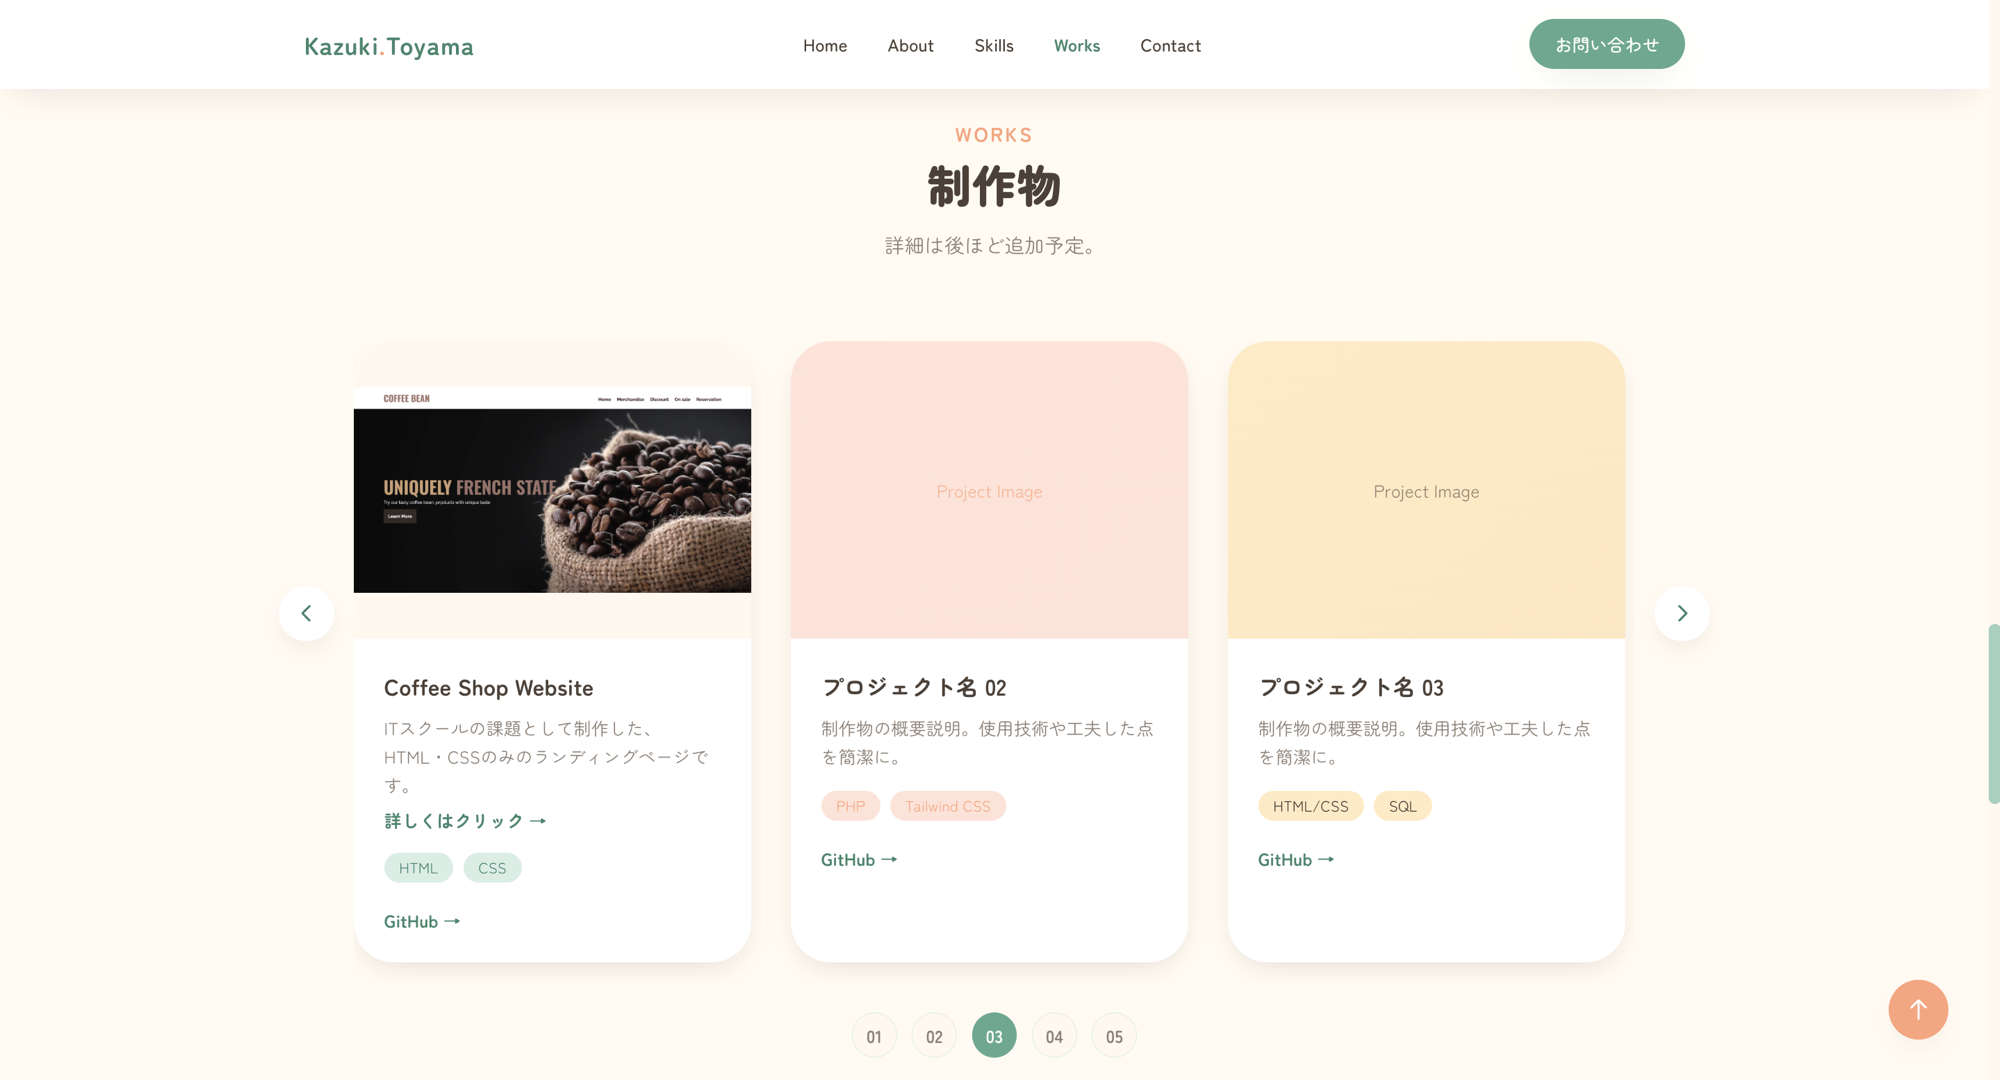
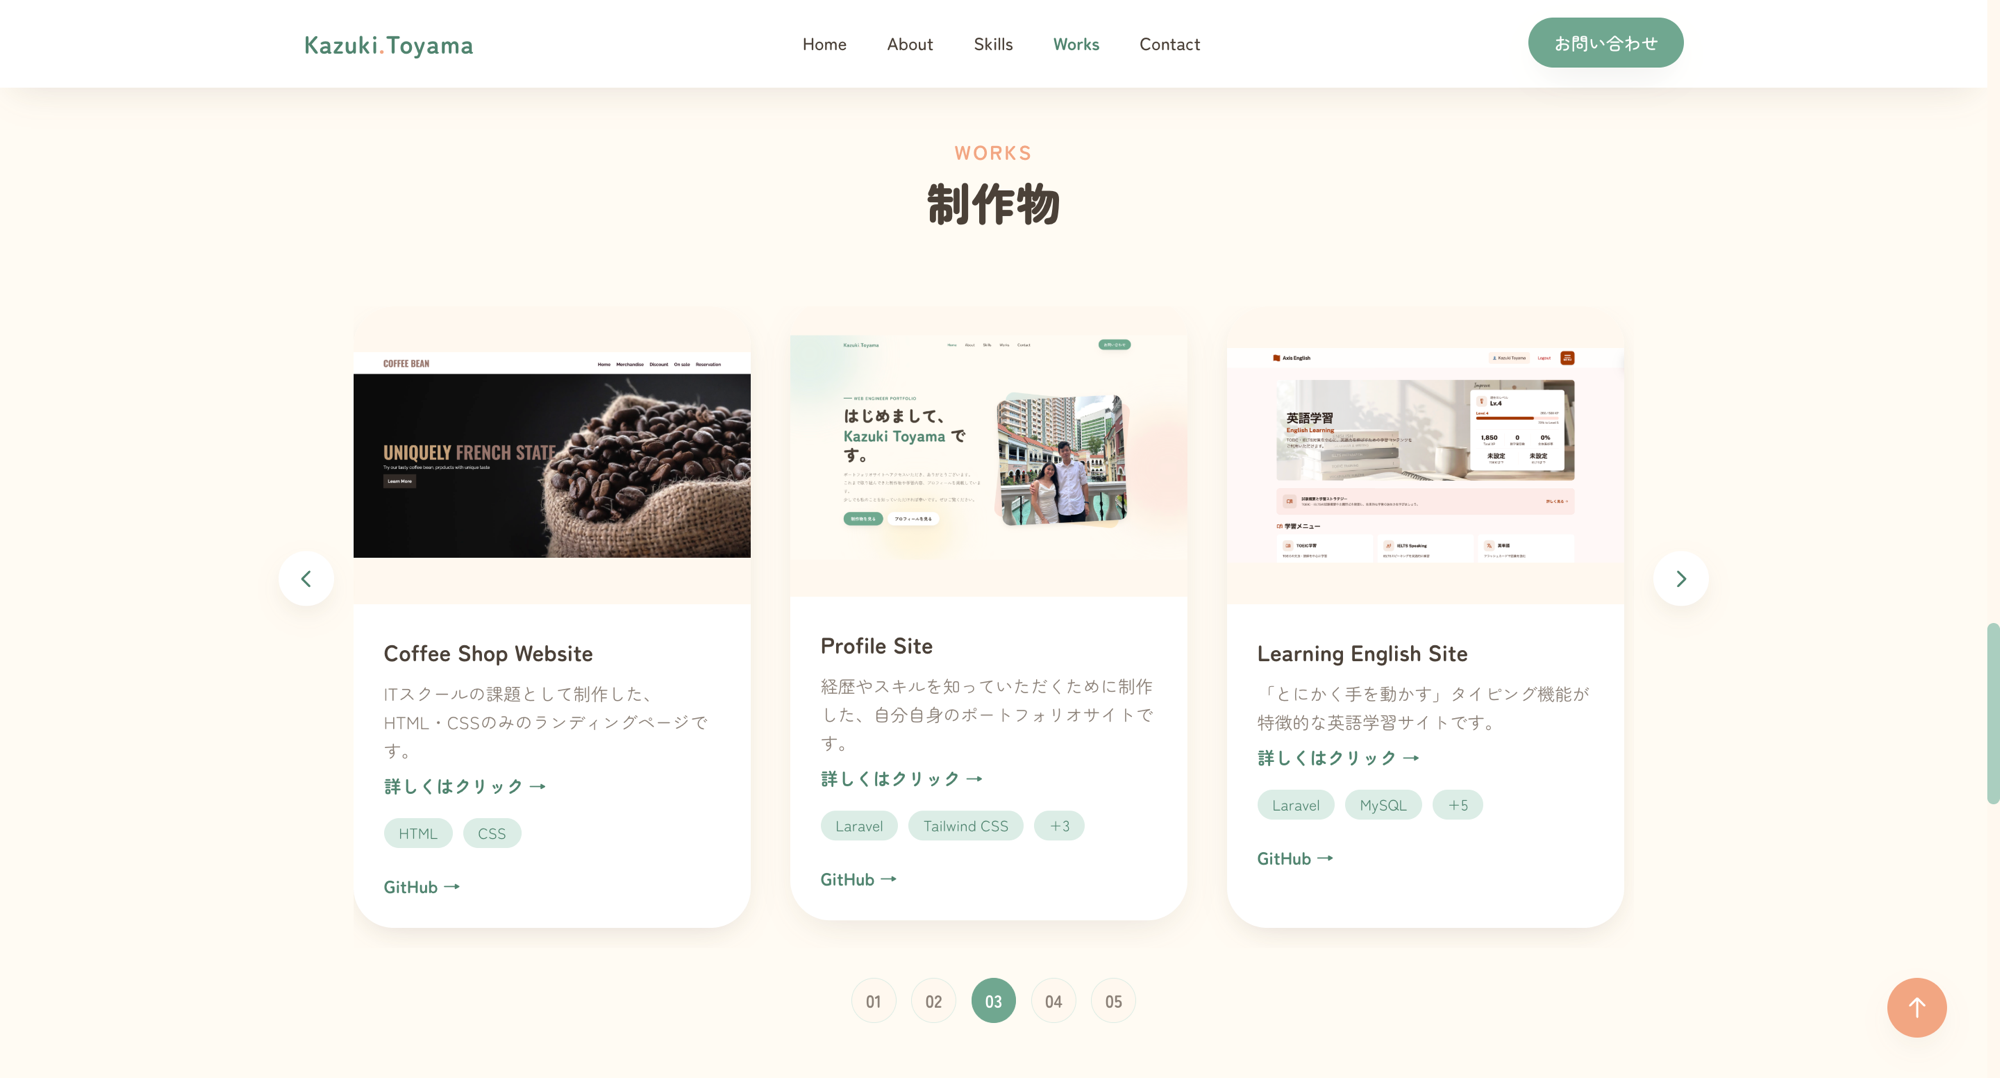
Update Works section content

diff --git a/resources/views/welcome.blade.php b/resources/views/welcome.blade.php
@@ -29,7 +29,7 @@
     'profile-site': {
       title: @js('Profile Site'),
       description: @js('本サイトは、私自身のポートフォリオサイトです。エンジニアとしての実務経験がまだないため、これまでの経歴やスキルを知っていただくことを目的に制作しました。バックエンドにはLaravel、フロントエンドはBladeテンプレートとTailwind CSS（Vite）で構築し、モーダルやカルーセルなどの動きはJavaScriptで実装しています。全体を通して優しい雰囲気とシンプルなテイストを意識したデザインに仕上げました。就職活動や学習の進捗に合わせて、今後も継続して使用・更新していく予定です。'),
-      tech: @js(['Laravel', 'Blade', 'Tailwind CSS', 'JavaScript', 'Vite']),
+      tech: @js(['HTML', 'CSS', 'JavaScript', 'Tailwind CSS', 'PHP', 'Laravel', 'MySQL']),
       images: [
         { src: @js(asset('images/works/profile-site/hero.png')), alt: @js('Profile Site のトップページ') },
         { src: @js(asset('images/works/profile-site/about.png')), alt: @js('Profile Site の自己紹介セクション') },
@@ -40,8 +40,8 @@
     },
     'learning-english': {
       title: @js('Learning English Site'),
-      description: @js("とにかく「手を動かして」英語を身につける、タイピング機能を軸にした英語学習サイトです。\n\n私自身の英語学習の経験から、「口を動かす（シャドーイング・音読）」ような、手軽に始められて継続しやすい練習が、特に初心者にとって効果的だと感じてきました。質の高い授業を受け、予習・復習を続ける学習法は理想的である一方、初心者にはハードルが高く、挫折しやすいという課題があります。実際に私は、現地の人と数多く話す機会をつくり、AIからフィードバックを得ながらSpeaking練習を重ねることで、英語力を伸ばしてきました。\n\nしかし、Speaking機能を備えた英語学習アプリはすでに数多く存在します。そこで本サイトでは、その対をなす新しいアプローチとして、「とにかく手を動かす（タイピング）」ことを軸に英語を学べる仕組みを発案し、開発しました。\n\nタイピング機能を中心的なコンテンツとしながら、TOEIC形式のReading演習、英単語のフラッシュカード学習、スペルクイズなど、複数の学習モードも実装しています。さらに、学習の継続を後押しする要素として、フォロー機能によるユーザー同士のつながりや、学習記録に基づくランキング機能も取り入れました。\n\nなお、音声機能は無料での実装を検討しましたが、音質が十分でなかったため今回は見送りました。同様に、Speaking／WritingのAI自動採点機能も、コストをかけずに開発する方針としたため、今回は導入していません。これらは今後の拡張課題と位置づけています。"),
-      tech: @js(['Laravel', 'PHP', 'MySQL', 'Blade', 'Tailwind CSS', 'JavaScript', 'Vite']),
+      description: @js("とにかく「手を動かして」英語を身につける、タイピング機能が特徴的な英語学習サイトです。\n\n私自身の英語学習の経験から、「口を動かす（シャドーイング・音読）」ような、手軽に始められて継続しやすい練習が、特に初心者にとって効果的だと感じてきました。質の高い授業を受け、予習・復習を続ける学習法は理想的である一方、初心者にはハードルが高く、挫折しやすいという課題があります。実際に私は、現地の人と数多く話す機会をつくり、IELTS学習時にAIからフィードバックを得ながらSpeaking練習を重ねることで、英語力を伸ばしてきました。\n\nしかし、Speaking機能を備えた英語学習アプリはすでに数多く存在します。そこで本サイトでは、その対をなす新しいアプローチとして、「とにかく手を動かす」タイピング機能を取り入れた英語学習の仕組みを発案し、開発しました。\n\nタイピング機能を中心的なコンテンツとしながら、TOEIC形式のReading演習、英単語のフラッシュカード学習、スペルクイズなど、複数の学習モードも実装しています。さらに、学習の継続を後押しする要素として、フォロー機能によるユーザー同士のつながりや、学習記録に基づくランキング機能も取り入れました。\n\nなお、音声機能は無料での実装を検討しましたが、音質が十分でなかったため今回は見送りました。同様に、Speaking／WritingのAI自動採点機能も、コストをかけずに開発する方針としたため、今回は導入していません。これらは今後の拡張課題と位置づけています。"),
+      tech: @js(['HTML', 'CSS', 'JavaScript', 'Tailwind CSS', 'PHP', 'Laravel', 'MySQL']),
       images: [
         { src: @js(asset('images/works/learning-english/home-dashboard.png')), alt: @js('Learning English Site のホーム画面（学習ダッシュボード）') },
         { src: @js(asset('images/works/learning-english/landing.png')), alt: @js('Learning English Site のランディングページ') },
@@ -361,7 +361,7 @@
               <div class="flex flex-wrap gap-2 mb-5">
                 <span class="text-xs px-3 py-1 rounded-full bg-primary-light text-primary-dark">Laravel</span>
                 <span class="text-xs px-3 py-1 rounded-full bg-primary-light text-primary-dark">Tailwind CSS</span>
-                <span class="text-xs px-3 py-1 rounded-full bg-primary-light text-primary-dark">+3</span>
+                <span class="text-xs px-3 py-1 rounded-full bg-primary-light text-primary-dark">+5</span>
               </div>
               <div class="flex gap-4 text-sm font-heading font-semibold">
                 <a href="https://github.com/kazukitooyama1998-svg/myprofile" target="_blank" rel="noopener" class="text-primary-dark hover:text-accent transition-colors">GitHub →</a>
